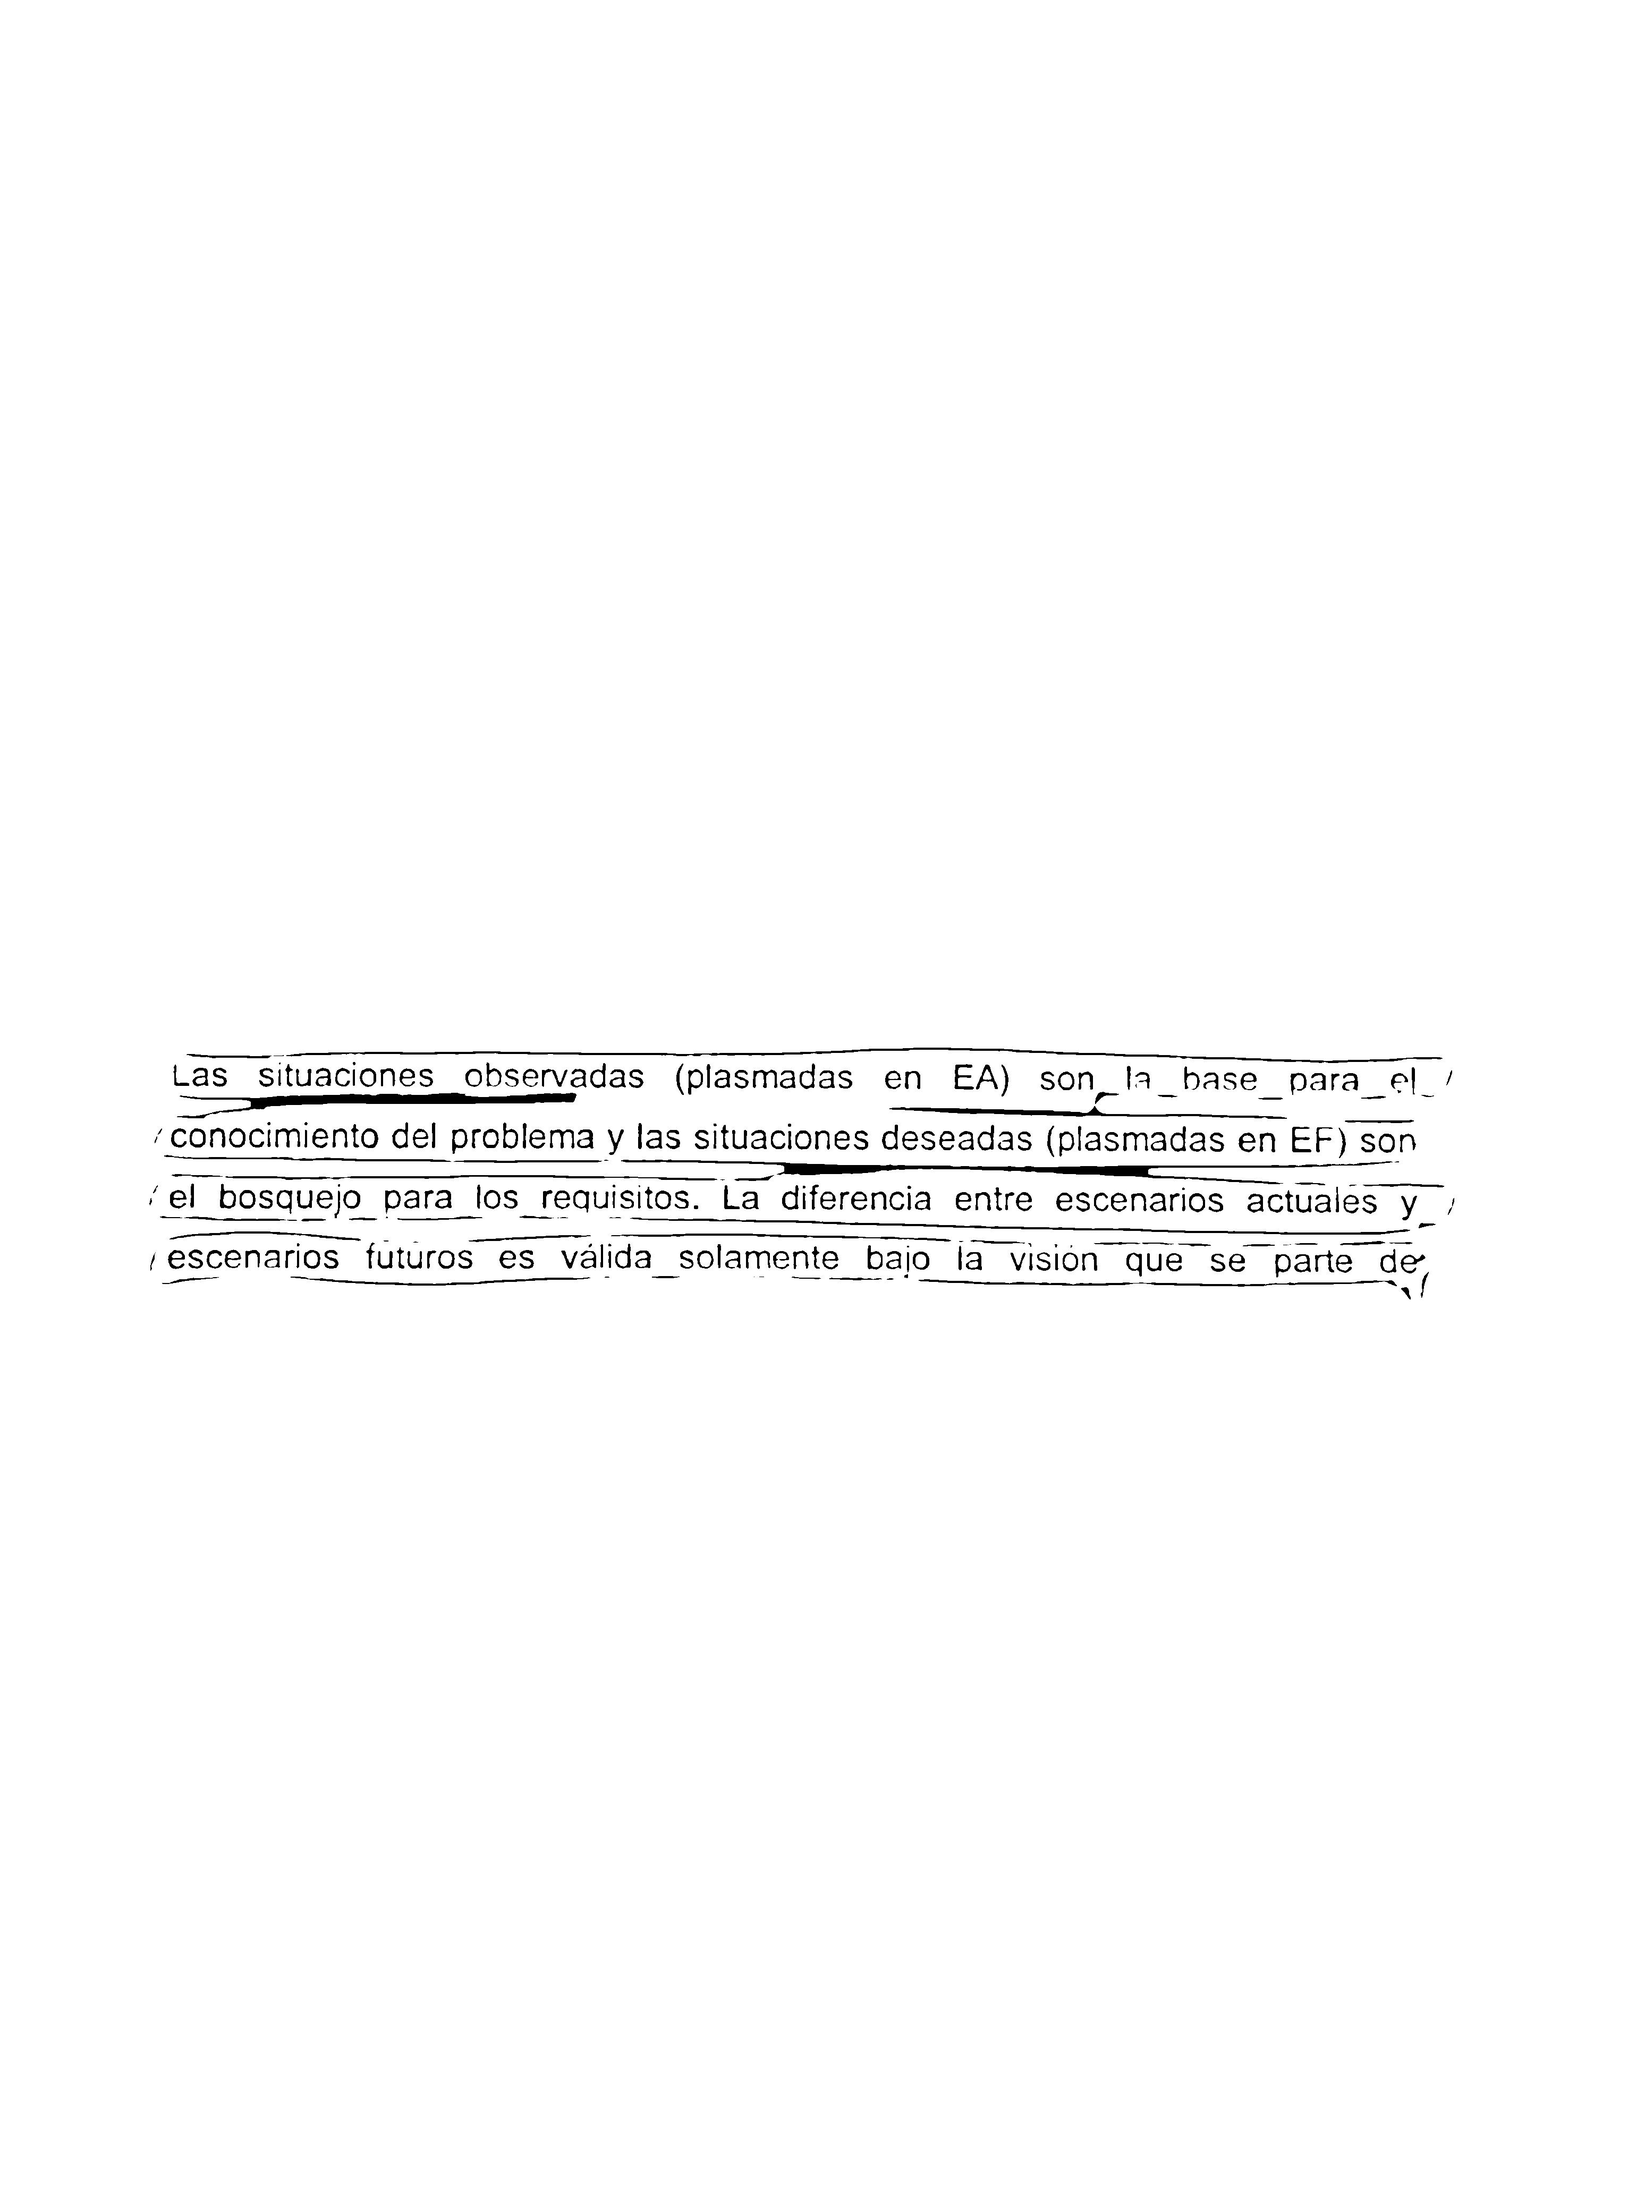
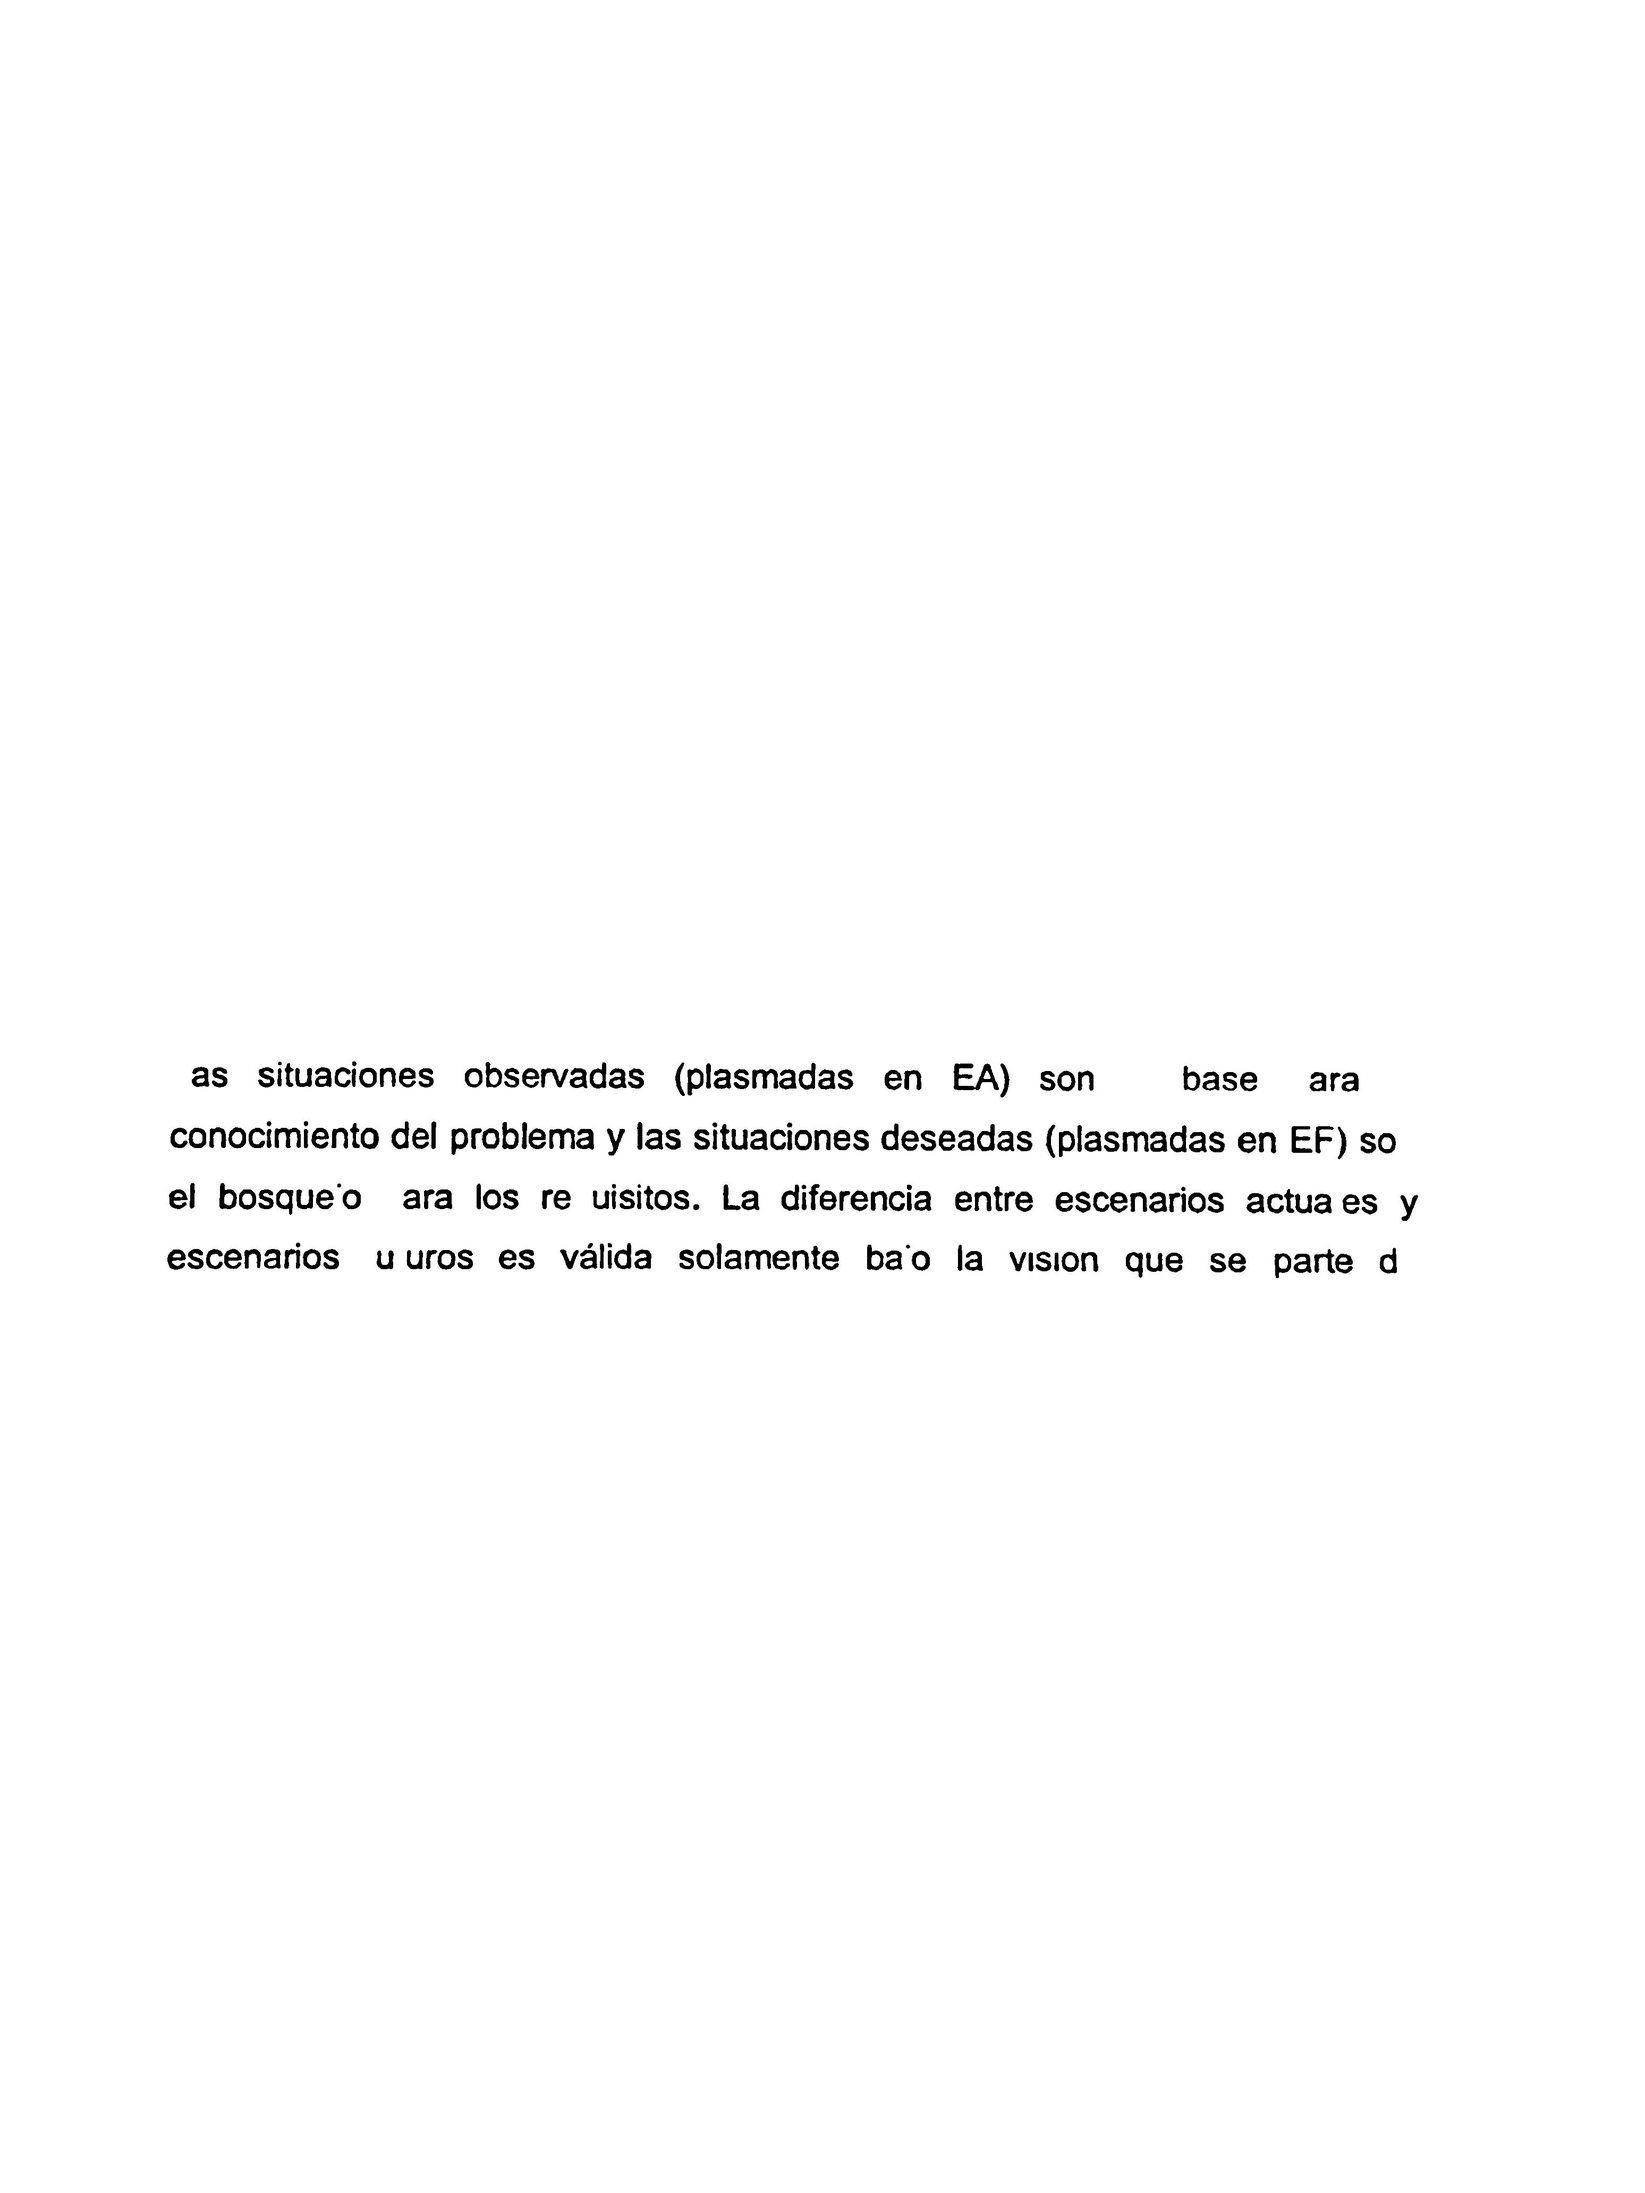
borro lineas

Changed region(s): [[0.4651, 0.5, 0.8682, 0.5938], [0.124, 0.4688, 0.3721, 0.5625], [0.3411, 0.5312, 0.3721, 0.5625]]

diff --git a/src/main/java/com/unounocuatro/ducit/utils/DucitUtils.java b/src/main/java/com/unounocuatro/ducit/utils/DucitUtils.java
@@ -1,5 +1,6 @@
 package com.unounocuatro.ducit.utils;
 
+import java.awt.Color;
 import java.awt.image.BufferedImage;
 import java.awt.image.ColorModel;
 import java.awt.image.DataBufferByte;
@@ -30,5 +31,44 @@ public class DucitUtils {
 		in.get(0, 0, data);
 		
 		return gray;
-    } 
+    }
+
+	public static BufferedImage cleanLines(BufferedImage image) {
+		boolean line=true;
+		looper:
+		for(int i=0; i<image.getWidth()-10; i++){
+			for(int j=0; j<image.getHeight(); j++){
+				for(int z=i; z<i+9; z++){
+					if(image.getRGB(z, j) != Color.BLACK.getRGB())
+						line=false;
+				}
+				if(line){
+					doCleanLines(image, i, j);
+					break looper;
+				}
+				line=true;
+			}
+		}
+		return image;
+	}
+
+	private static void doCleanLines(BufferedImage image, int i, int j) {
+		image.setRGB(i, j, Color.WHITE.getRGB());
+		if(image.getRGB(i-1, j-1)==Color.BLACK.getRGB())
+			doCleanLines(image, i-1, j-1);
+		if(image.getRGB(i-1, j)==Color.BLACK.getRGB())
+			doCleanLines(image, i-1, j);
+		if(image.getRGB(i-1, j+1)==Color.BLACK.getRGB())
+			doCleanLines(image, i-1, j+1);
+		if(image.getRGB(i, j-1)==Color.BLACK.getRGB())
+			doCleanLines(image, i, j-1);
+		if(image.getRGB(i, j+1)==Color.BLACK.getRGB())
+			doCleanLines(image, i, j+1);
+		if(image.getRGB(i+1, j-1)==Color.BLACK.getRGB())
+			doCleanLines(image, i+1, j-1);
+		if(image.getRGB(i+1, j)==Color.BLACK.getRGB())
+			doCleanLines(image, i+1, j);
+		if(image.getRGB(i+1, j+1)==Color.BLACK.getRGB())
+			doCleanLines(image, i+1, j+1);
+	}
 }

diff --git a/src/main/java/com/unounocuatro/ducit/preprocessors/NewPreprocessor.java b/src/main/java/com/unounocuatro/ducit/preprocessors/NewPreprocessor.java
@@ -190,11 +190,11 @@ public class NewPreprocessor implements Preprocessor {
 		
 		//Aplico adaptative threshold
 		
-		Imgproc.adaptiveThreshold(gauss, adapt, 255, Imgproc.ADAPTIVE_THRESH_MEAN_C, Imgproc.THRESH_BINARY, 41,51);
+		Imgproc.adaptiveThreshold(gauss, adapt, 255, Imgproc.ADAPTIVE_THRESH_MEAN_C, Imgproc.THRESH_BINARY, 41,11);
 		
 		//Imgcodecs.imwrite("./src/main/resources/images/hsv.jpg",adapt);
 		
-		return DucitUtils.mat2Img(adapt);
+		return DucitUtils.cleanLines(DucitUtils.mat2Img(adapt));
 	}
 
 }

diff --git a/src/main/java/com/unounocuatro/ducit/ducit/App.java b/src/main/java/com/unounocuatro/ducit/ducit/App.java
@@ -11,7 +11,7 @@ public class App
     {	        
         try {
         	Engine engine = DefaultEngine.getInstance();
-			String result = engine.scan("./src/main/resources/images/test.png");
+			String result = engine.scan("./src/main/resources/images/test.jpg");
 			System.out.println(result);
 			//DucitDAO dao = new DucitDaoImpl();
 			//System.out.println(dao.getWordMeaning("perro"));

diff --git a/src/main/java/com/unounocuatro/ducit/processors/DefaultProcessor.java b/src/main/java/com/unounocuatro/ducit/processors/DefaultProcessor.java
@@ -33,7 +33,7 @@ private void setOCRConfig() {
 	instance.setTessVariable("load_freq_dawg", properties.getProperty("load_freq_dawg"));
 	instance.setLanguage(properties.getProperty("language"));
 	instance.setDatapath(properties.getProperty("data_path"));
-	instance.setPageSegMode(4);
+	//instance.setPageSegMode(4);
 	instance.setOcrEngineMode(TessAPI.TessOcrEngineMode.OEM_DEFAULT);
 }
 }
